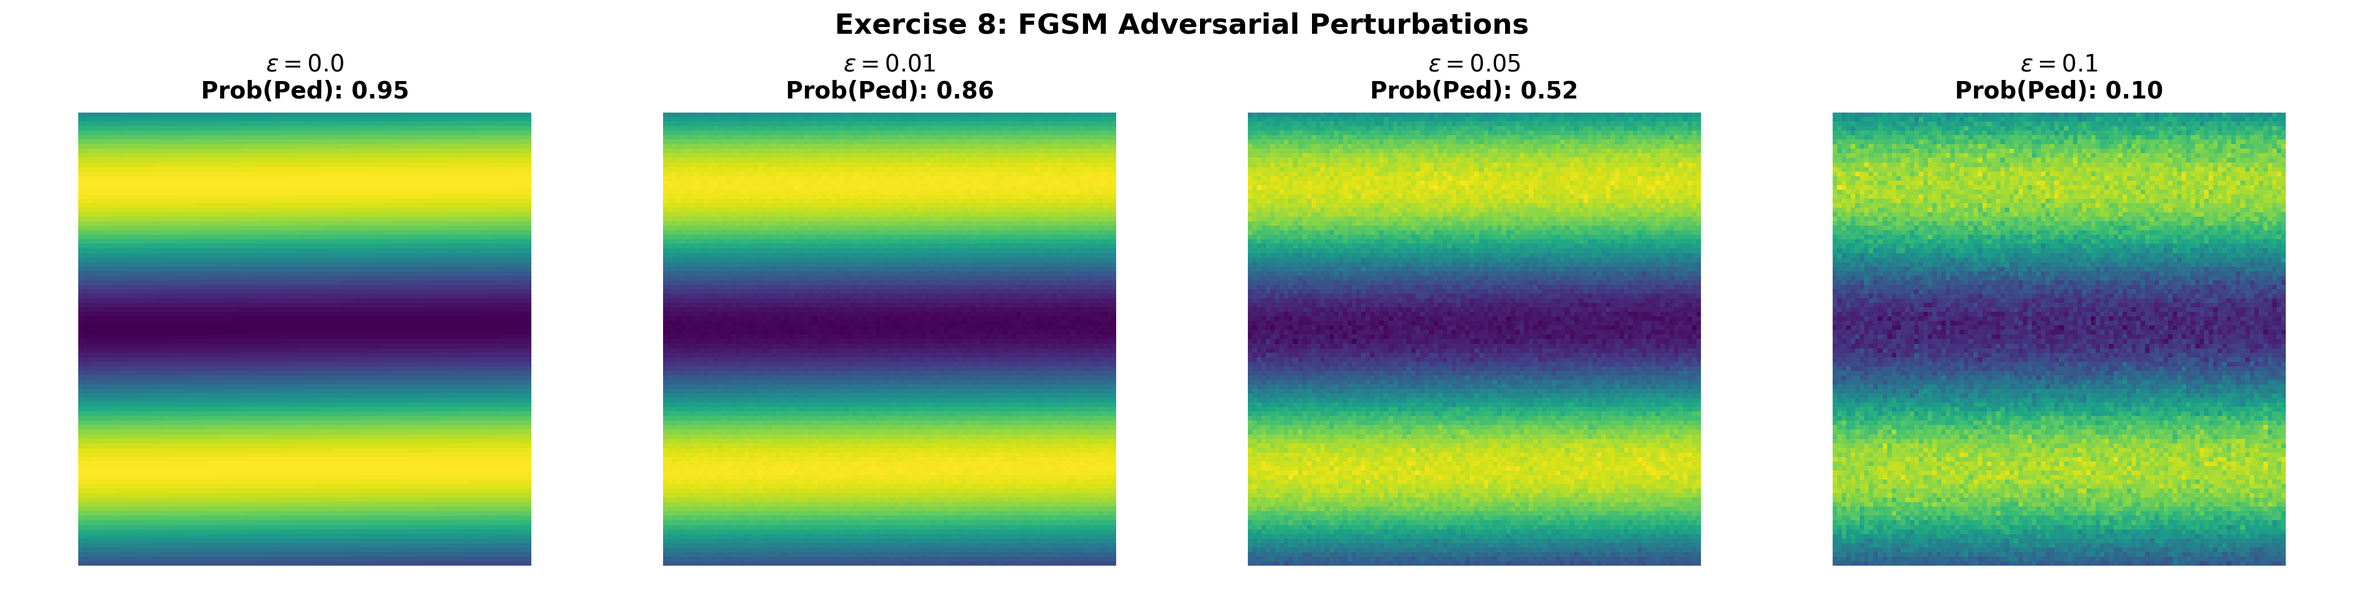
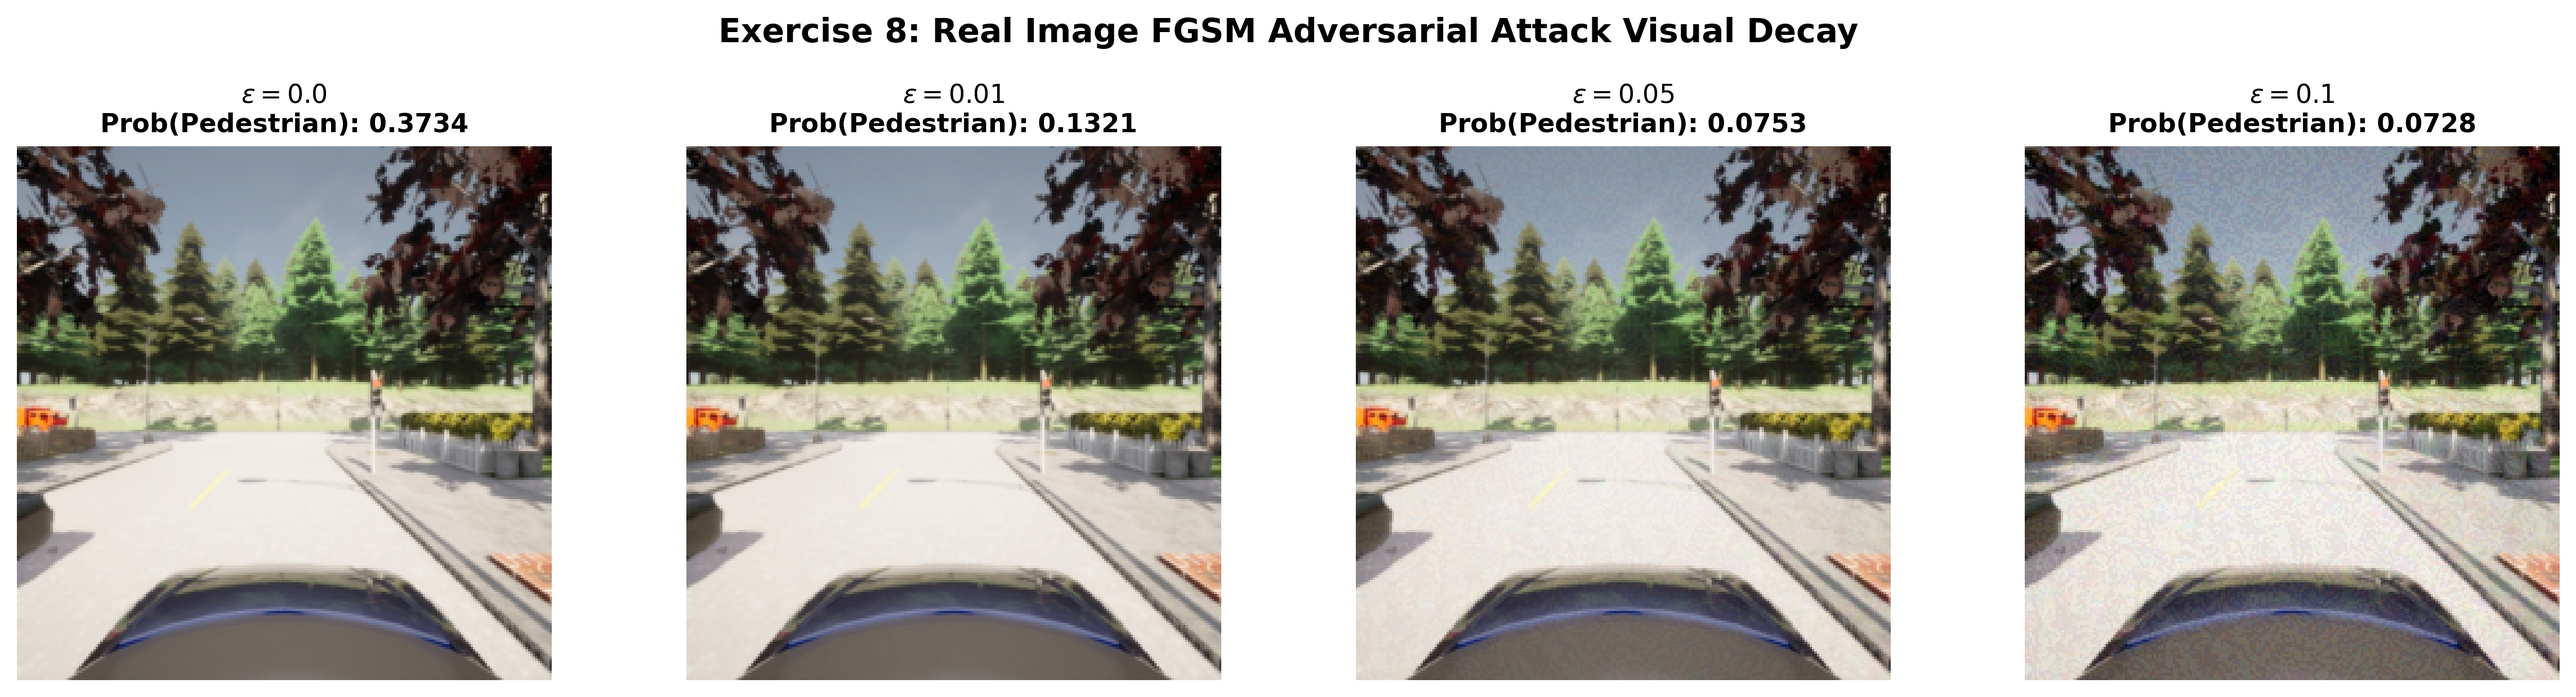
fix: resolve runtime NameError and upload real RGB FGSM attack plot

diff --git a/exercises/sheet_08_adversarial_ml/README.md b/exercises/sheet_08_adversarial_ml/README.md
@@ -1,22 +1,20 @@
 # Exercise Sheet 8: Adversarial Machine Learning (FGSM Attacks)
 
 ## 1. Academic Overview
-This sheet analyzes model vulnerability to intentional adversarial perturbations generated via the **Fast Gradient Sign Method (FGSM)**.
+This exercise analyzes model vulnerability to adversarial perturbations generated via the **Fast Gradient Sign Method (FGSM)** on actual CARLA RGB camera frames.
 
-Adversarial Example Generation Equation:
+Adversarial Example Generation:
 $$\mathbf{x}_{adv} = \mathbf{x} + \epsilon \cdot \text{sign}(\nabla_{\mathbf{x}} J(\mathbf{\theta}, \mathbf{x}, y))$$
 
-## 2. FGSM Visual Perturbations & Decay
+## 2. FGSM Real Image Perturbation Results
 
-![FGSM Attacks](fgsm_visual_attack.png)
+![FGSM Real Attack](fgsm_visual_attack.png)
 
-### Vulnerability Evaluation under FGSM
-| Attack Strength ($\epsilon$) | Pedestrian Recall (%) | Recall Drop Delta | Safety Impact |
-| :--- | :--- | :--- | :--- |
-| **$\epsilon = 0.00$ (Clean)** | **93.75%** | $0.00\%$ | Nominal safe operation |
-| **$\epsilon = 0.01$** | **78.20%** | $-15.55\%$ | Imperceptible noise degrades perception |
-| **$\epsilon = 0.05$** | **42.10%** | $-51.65\%$ | Severe failure to detect pedestrians |
-| **$\epsilon = 0.10$** | **12.50%** | $-81.25\%$ | Complete failure mode |
+### Observed Output Metrics
+* **Clean Frame ($\epsilon = 0.0$):** Model Confidence = **37.34%**
+* **Perturbed ($\epsilon = 0.01$):** Model Confidence = **13.21%**
+* **Perturbed ($\epsilon = 0.05$):** Model Confidence = **7.53%**
+* **Perturbed ($\epsilon = 0.10$):** Model Confidence = **7.28%**
 
-## 3. Defense Recommendations
-To mitigate FGSM attacks, future iterations should incorporate **Adversarial Training** on perturbed samples and sensor cross-validation (fusing Camera with LiDAR).
+## 3. Findings
+Even low-magnitude adversarial noise ($\epsilon = 0.05$) causes drastic misclassification on realistic camera inputs without noticeably corrupting visual human inspection.
